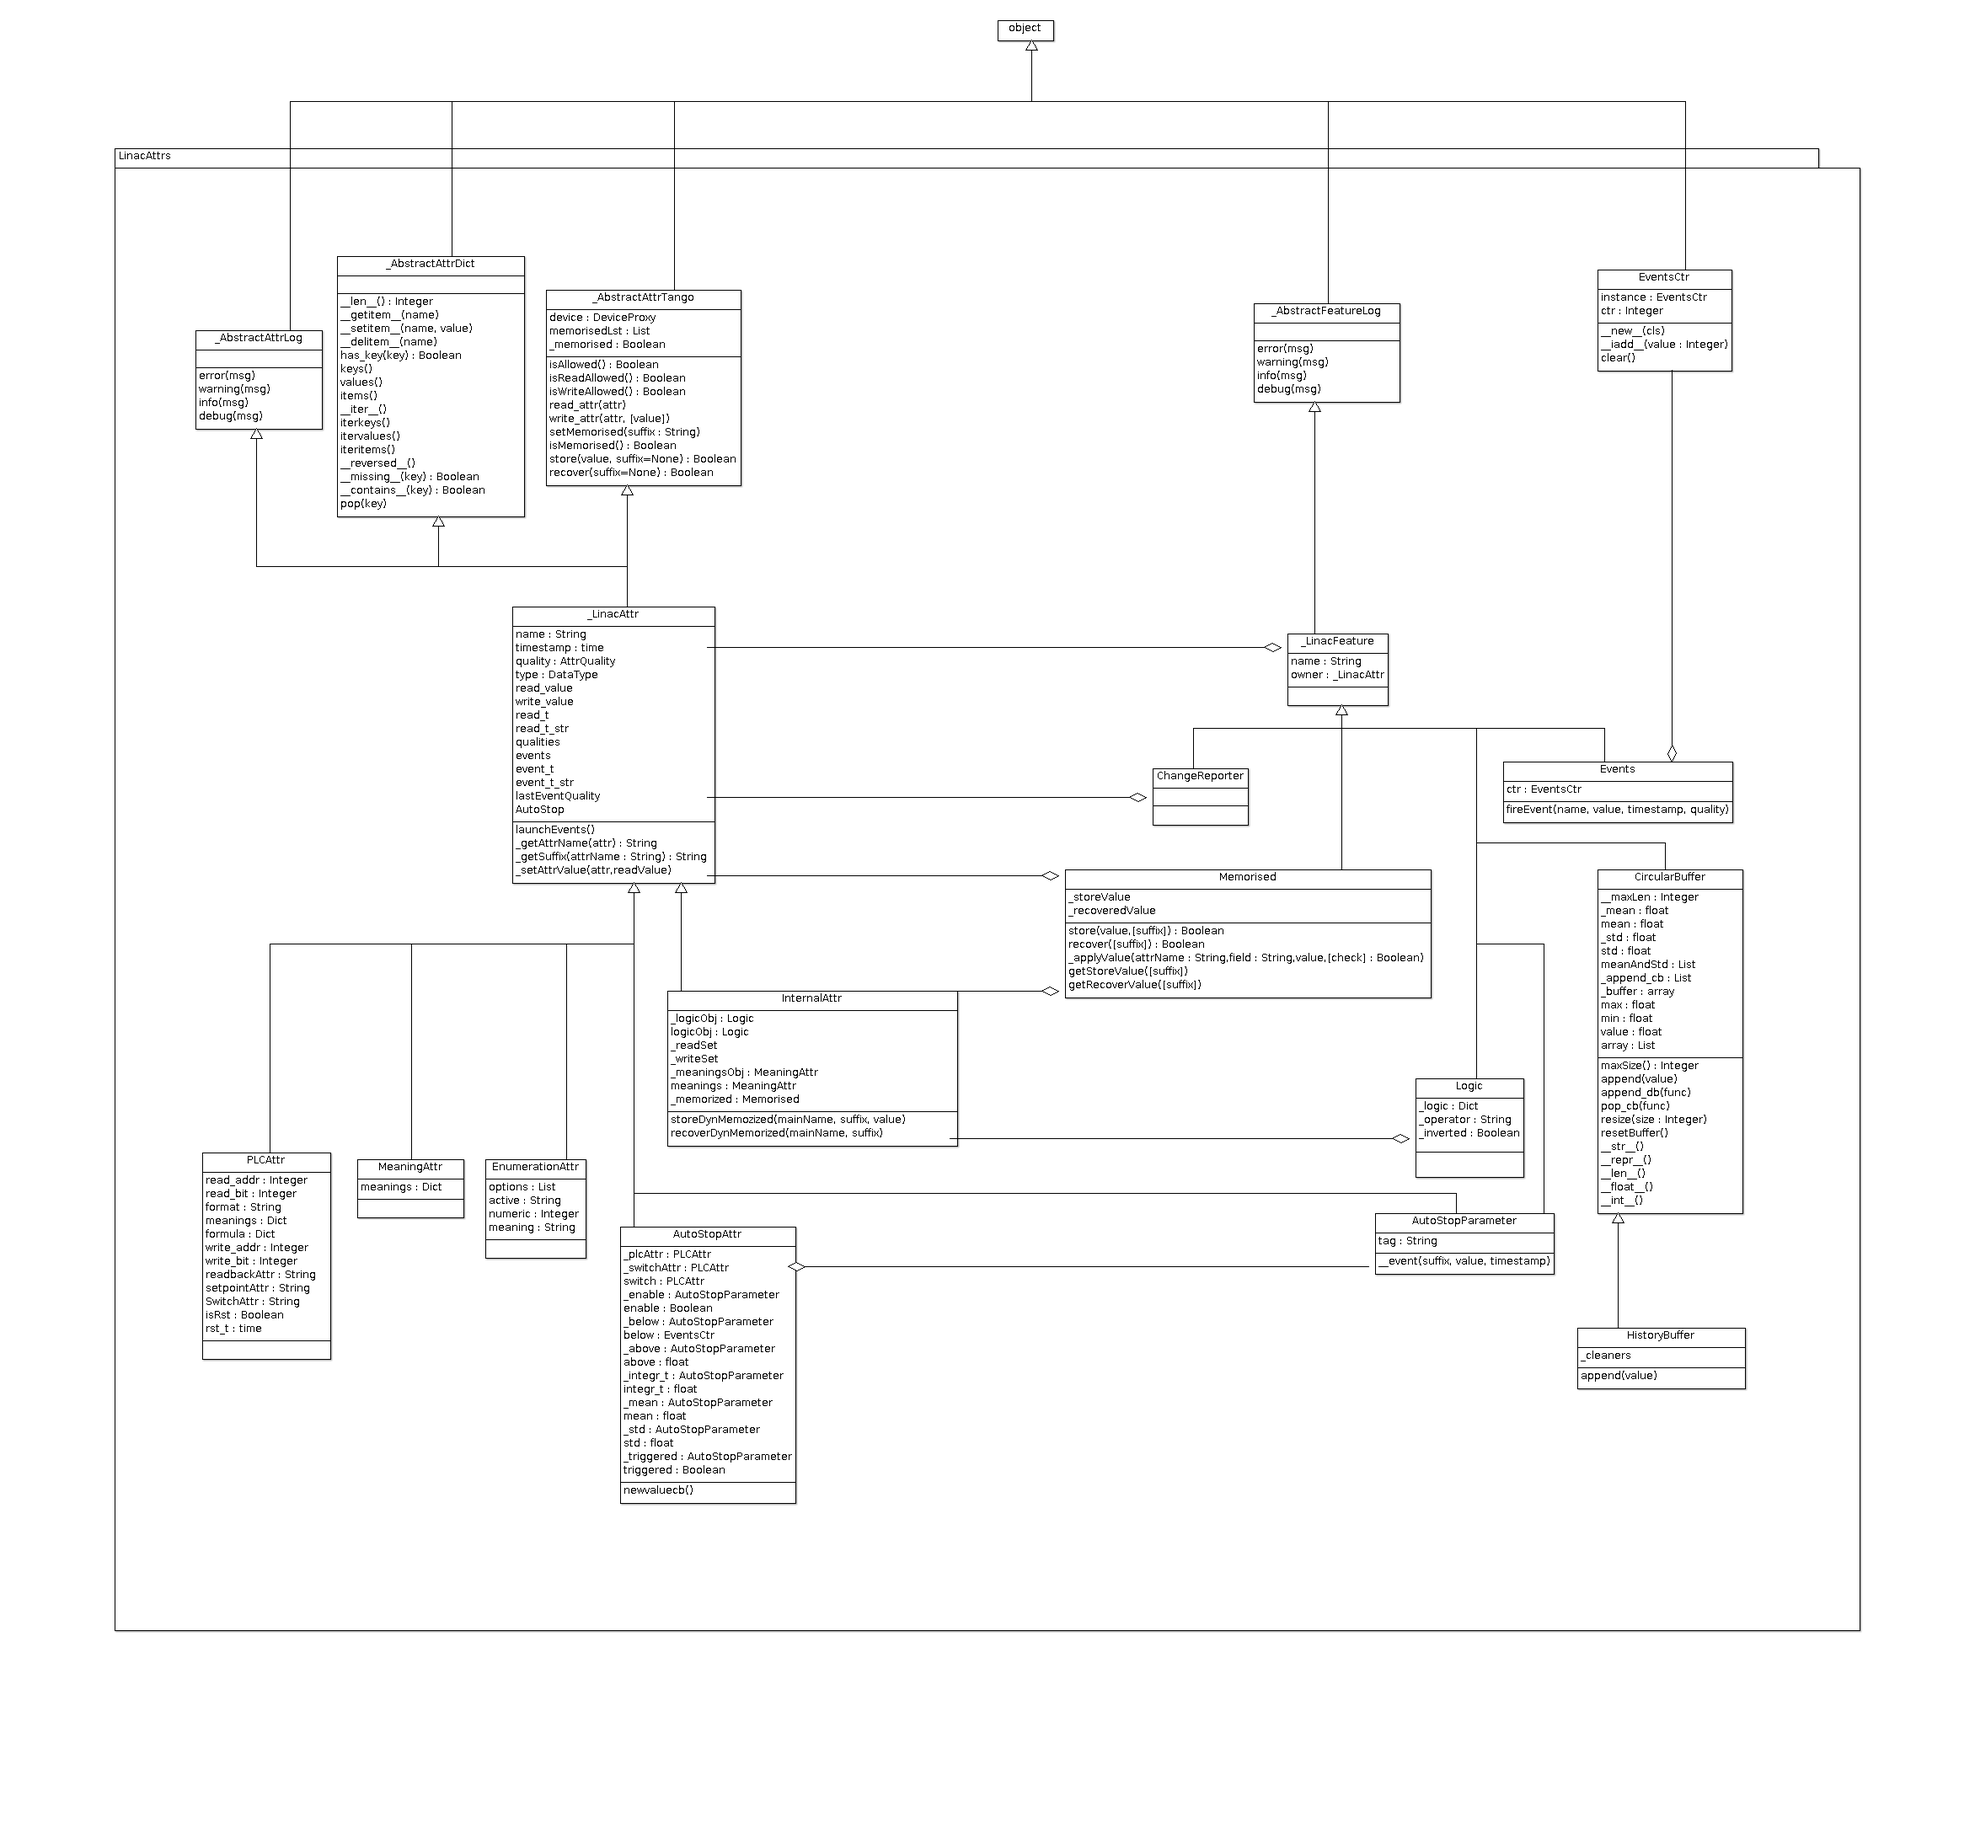
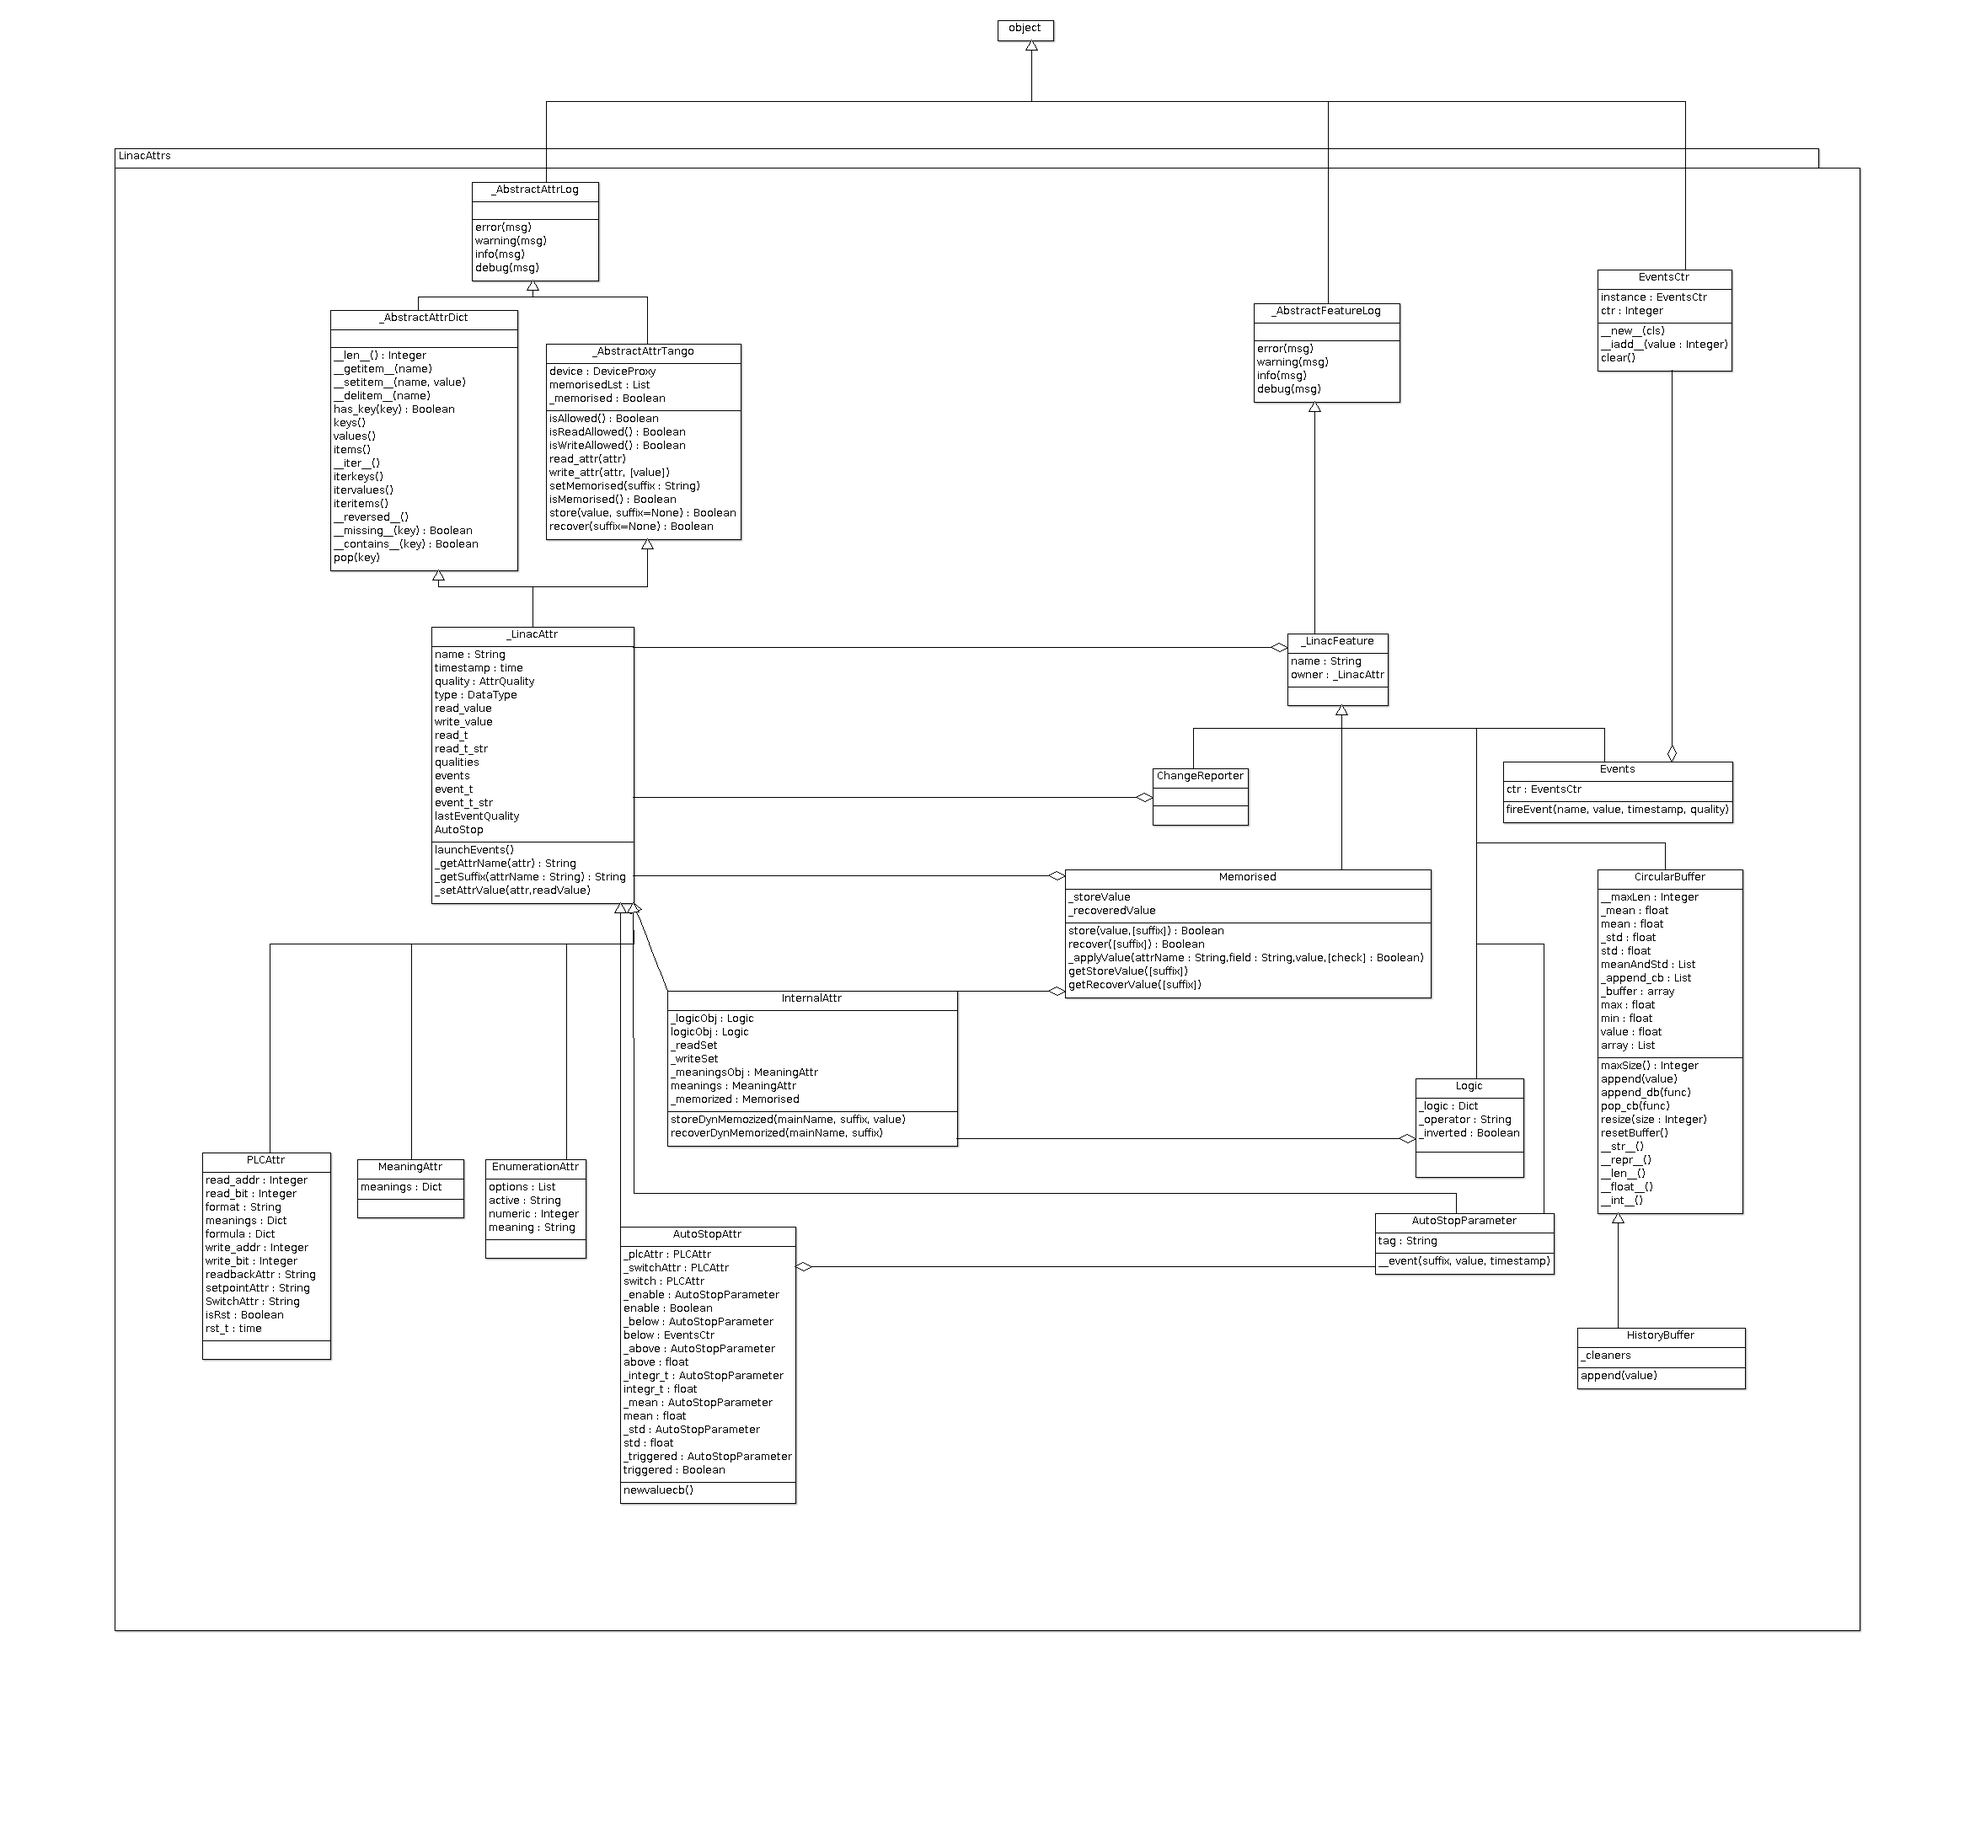
fix dependency between abstract classes

Changed region(s): [[0.1557, 0.0934, 0.3737, 0.3114], [0.218, 0.3425, 0.3426, 0.4982], [0.0934, 0.1868, 0.1246, 0.2179]]

diff --git a/LinacAttrs/linacAttr.py b/LinacAttrs/linacAttr.py
@@ -15,7 +15,7 @@
 #
 # ##### END GPL LICENSE BLOCK #####
 
-from .abstract import _AbstractAttrLog, _AbstractAttrDict, _AbstractAttrTango
+from .abstract import _AbstractAttrDict, _AbstractAttrTango
 from .LinacFeatures import Events, ChangeReporter
 from .LinacFeatures import CircularBuffer, HistoryBuffer
 from PyTango import AttrQuality
@@ -41,7 +41,7 @@ TYPE_MAP = {DevUChar: ('B', 1),
             }
 
 
-class LinacAttr(_AbstractAttrLog, _AbstractAttrDict, _AbstractAttrTango):
+class LinacAttr(_AbstractAttrDict, _AbstractAttrTango):
 
     _readValue = None
     _writeValue = None

diff --git a/LinacAttrs/abstract.py b/LinacAttrs/abstract.py
@@ -105,7 +105,7 @@ class _AbstractAttrLog(object):
             print("DEBUG: %s" % (msg))
 
 
-class _AbstractAttrDict(object):
+class _AbstractAttrDict(_AbstractAttrLog):
 
     _keysLst = None
 
@@ -216,7 +216,7 @@ class _AbstractAttrDict(object):
     def pop(self, key):
         self[key] = None
 
-class _AbstractAttrTango(object):
+class _AbstractAttrTango(_AbstractAttrLog):
 
     _device = None
 
